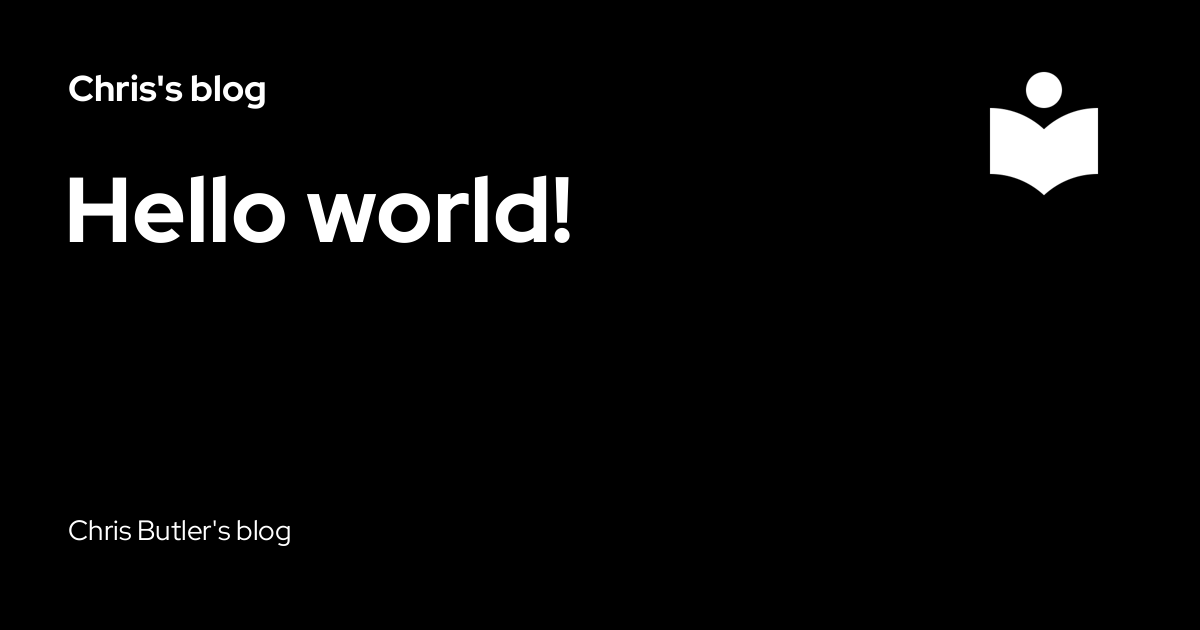
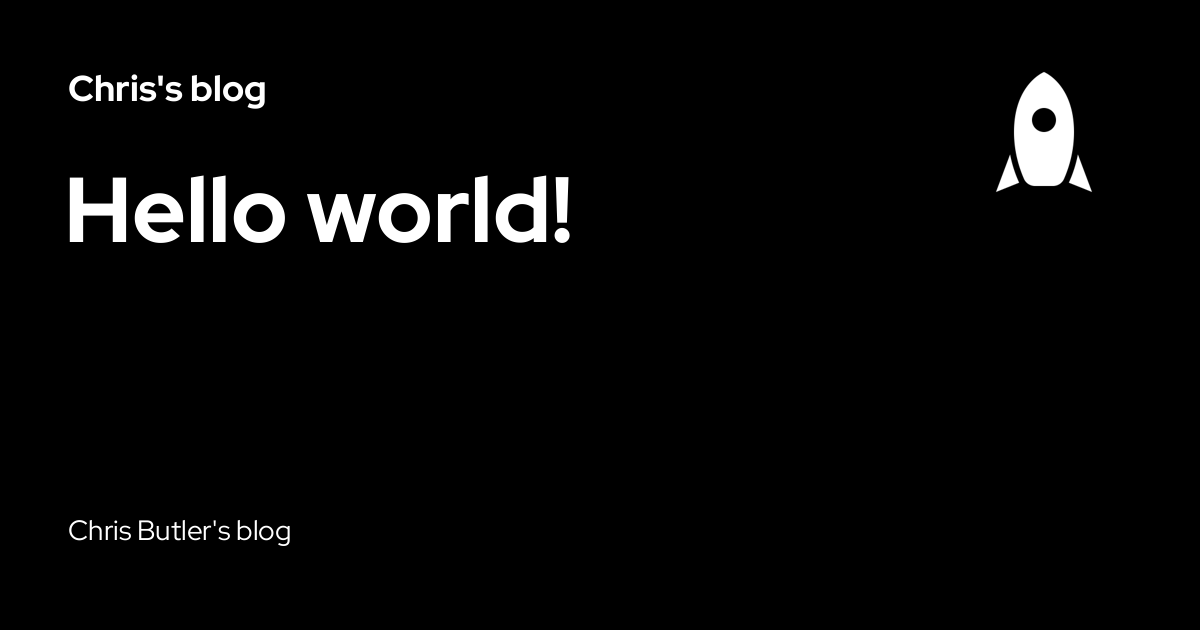
Deployed 9d69c99 with MkDocs version: 1.5.3

Changed region(s): [[0.8017, 0.1206, 0.925, 0.3016]]

diff --git a/blog/2000/01/01/hello-world/index.html b/blog/2000/01/01/hello-world/index.html
@@ -128,7 +128,7 @@
     <a href="../../../../.." title="Chris&#39;s blog" class="md-header__button md-logo" aria-label="Chris's blog" data-md-component="logo">
       
   
-  <svg xmlns="http://www.w3.org/2000/svg" viewBox="0 0 24 24"><path d="M12 8a3 3 0 0 0 3-3 3 3 0 0 0-3-3 3 3 0 0 0-3 3 3 3 0 0 0 3 3m0 3.54C9.64 9.35 6.5 8 3 8v11c3.5 0 6.64 1.35 9 3.54 2.36-2.19 5.5-3.54 9-3.54V8c-3.5 0-6.64 1.35-9 3.54Z"/></svg>
+  <svg xmlns="http://www.w3.org/2000/svg" viewBox="0 0 24 24"><path d="m20 22-3.86-1.55c.7-1.53 1.2-3.11 1.51-4.72L20 22M7.86 20.45 4 22l2.35-6.27c.31 1.61.81 3.19 1.51 4.72M12 2s5 2 5 10c0 3.1-.75 5.75-1.67 7.83A2 2 0 0 1 13.5 21h-3a2 2 0 0 1-1.83-1.17C7.76 17.75 7 15.1 7 12c0-8 5-10 5-10m0 10c1.1 0 2-.9 2-2s-.9-2-2-2-2 .9-2 2 .9 2 2 2Z"/></svg>
 
     </a>
     <label class="md-header__button md-icon" for="__drawer">
@@ -367,7 +367,7 @@
     <a href="../../../../.." title="Chris&#39;s blog" class="md-nav__button md-logo" aria-label="Chris's blog" data-md-component="logo">
       
   
-  <svg xmlns="http://www.w3.org/2000/svg" viewBox="0 0 24 24"><path d="M12 8a3 3 0 0 0 3-3 3 3 0 0 0-3-3 3 3 0 0 0-3 3 3 3 0 0 0 3 3m0 3.54C9.64 9.35 6.5 8 3 8v11c3.5 0 6.64 1.35 9 3.54 2.36-2.19 5.5-3.54 9-3.54V8c-3.5 0-6.64 1.35-9 3.54Z"/></svg>
+  <svg xmlns="http://www.w3.org/2000/svg" viewBox="0 0 24 24"><path d="m20 22-3.86-1.55c.7-1.53 1.2-3.11 1.51-4.72L20 22M7.86 20.45 4 22l2.35-6.27c.31 1.61.81 3.19 1.51 4.72M12 2s5 2 5 10c0 3.1-.75 5.75-1.67 7.83A2 2 0 0 1 13.5 21h-3a2 2 0 0 1-1.83-1.17C7.76 17.75 7 15.1 7 12c0-8 5-10 5-10m0 10c1.1 0 2-.9 2-2s-.9-2-2-2-2 .9-2 2 .9 2 2 2Z"/></svg>
 
     </a>
     Chris's blog

diff --git a/blog/2023/02/01/documentation-as-code/index.html b/blog/2023/02/01/documentation-as-code/index.html
@@ -132,7 +132,7 @@
     <a href="../../../../.." title="Chris&#39;s blog" class="md-header__button md-logo" aria-label="Chris's blog" data-md-component="logo">
       
   
-  <svg xmlns="http://www.w3.org/2000/svg" viewBox="0 0 24 24"><path d="M12 8a3 3 0 0 0 3-3 3 3 0 0 0-3-3 3 3 0 0 0-3 3 3 3 0 0 0 3 3m0 3.54C9.64 9.35 6.5 8 3 8v11c3.5 0 6.64 1.35 9 3.54 2.36-2.19 5.5-3.54 9-3.54V8c-3.5 0-6.64 1.35-9 3.54Z"/></svg>
+  <svg xmlns="http://www.w3.org/2000/svg" viewBox="0 0 24 24"><path d="m20 22-3.86-1.55c.7-1.53 1.2-3.11 1.51-4.72L20 22M7.86 20.45 4 22l2.35-6.27c.31 1.61.81 3.19 1.51 4.72M12 2s5 2 5 10c0 3.1-.75 5.75-1.67 7.83A2 2 0 0 1 13.5 21h-3a2 2 0 0 1-1.83-1.17C7.76 17.75 7 15.1 7 12c0-8 5-10 5-10m0 10c1.1 0 2-.9 2-2s-.9-2-2-2-2 .9-2 2 .9 2 2 2Z"/></svg>
 
     </a>
     <label class="md-header__button md-icon" for="__drawer">
@@ -371,7 +371,7 @@
     <a href="../../../../.." title="Chris&#39;s blog" class="md-nav__button md-logo" aria-label="Chris's blog" data-md-component="logo">
       
   
-  <svg xmlns="http://www.w3.org/2000/svg" viewBox="0 0 24 24"><path d="M12 8a3 3 0 0 0 3-3 3 3 0 0 0-3-3 3 3 0 0 0-3 3 3 3 0 0 0 3 3m0 3.54C9.64 9.35 6.5 8 3 8v11c3.5 0 6.64 1.35 9 3.54 2.36-2.19 5.5-3.54 9-3.54V8c-3.5 0-6.64 1.35-9 3.54Z"/></svg>
+  <svg xmlns="http://www.w3.org/2000/svg" viewBox="0 0 24 24"><path d="m20 22-3.86-1.55c.7-1.53 1.2-3.11 1.51-4.72L20 22M7.86 20.45 4 22l2.35-6.27c.31 1.61.81 3.19 1.51 4.72M12 2s5 2 5 10c0 3.1-.75 5.75-1.67 7.83A2 2 0 0 1 13.5 21h-3a2 2 0 0 1-1.83-1.17C7.76 17.75 7 15.1 7 12c0-8 5-10 5-10m0 10c1.1 0 2-.9 2-2s-.9-2-2-2-2 .9-2 2 .9 2 2 2Z"/></svg>
 
     </a>
     Chris's blog

diff --git a/blog/2023/10/30/validated-patterns-for-demos/index.html b/blog/2023/10/30/validated-patterns-for-demos/index.html
@@ -133,7 +133,7 @@
     <a href="../../../../.." title="Chris&#39;s blog" class="md-header__button md-logo" aria-label="Chris's blog" data-md-component="logo">
       
   
-  <svg xmlns="http://www.w3.org/2000/svg" viewBox="0 0 24 24"><path d="M12 8a3 3 0 0 0 3-3 3 3 0 0 0-3-3 3 3 0 0 0-3 3 3 3 0 0 0 3 3m0 3.54C9.64 9.35 6.5 8 3 8v11c3.5 0 6.64 1.35 9 3.54 2.36-2.19 5.5-3.54 9-3.54V8c-3.5 0-6.64 1.35-9 3.54Z"/></svg>
+  <svg xmlns="http://www.w3.org/2000/svg" viewBox="0 0 24 24"><path d="m20 22-3.86-1.55c.7-1.53 1.2-3.11 1.51-4.72L20 22M7.86 20.45 4 22l2.35-6.27c.31 1.61.81 3.19 1.51 4.72M12 2s5 2 5 10c0 3.1-.75 5.75-1.67 7.83A2 2 0 0 1 13.5 21h-3a2 2 0 0 1-1.83-1.17C7.76 17.75 7 15.1 7 12c0-8 5-10 5-10m0 10c1.1 0 2-.9 2-2s-.9-2-2-2-2 .9-2 2 .9 2 2 2Z"/></svg>
 
     </a>
     <label class="md-header__button md-icon" for="__drawer">
@@ -372,7 +372,7 @@
     <a href="../../../../.." title="Chris&#39;s blog" class="md-nav__button md-logo" aria-label="Chris's blog" data-md-component="logo">
       
   
-  <svg xmlns="http://www.w3.org/2000/svg" viewBox="0 0 24 24"><path d="M12 8a3 3 0 0 0 3-3 3 3 0 0 0-3-3 3 3 0 0 0-3 3 3 3 0 0 0 3 3m0 3.54C9.64 9.35 6.5 8 3 8v11c3.5 0 6.64 1.35 9 3.54 2.36-2.19 5.5-3.54 9-3.54V8c-3.5 0-6.64 1.35-9 3.54Z"/></svg>
+  <svg xmlns="http://www.w3.org/2000/svg" viewBox="0 0 24 24"><path d="m20 22-3.86-1.55c.7-1.53 1.2-3.11 1.51-4.72L20 22M7.86 20.45 4 22l2.35-6.27c.31 1.61.81 3.19 1.51 4.72M12 2s5 2 5 10c0 3.1-.75 5.75-1.67 7.83A2 2 0 0 1 13.5 21h-3a2 2 0 0 1-1.83-1.17C7.76 17.75 7 15.1 7 12c0-8 5-10 5-10m0 10c1.1 0 2-.9 2-2s-.9-2-2-2-2 .9-2 2 .9 2 2 2Z"/></svg>
 
     </a>
     Chris's blog

diff --git a/blog/archive/2000/index.html b/blog/archive/2000/index.html
@@ -130,7 +130,7 @@
     <a href="../../.." title="Chris&#39;s blog" class="md-header__button md-logo" aria-label="Chris's blog" data-md-component="logo">
       
   
-  <svg xmlns="http://www.w3.org/2000/svg" viewBox="0 0 24 24"><path d="M12 8a3 3 0 0 0 3-3 3 3 0 0 0-3-3 3 3 0 0 0-3 3 3 3 0 0 0 3 3m0 3.54C9.64 9.35 6.5 8 3 8v11c3.5 0 6.64 1.35 9 3.54 2.36-2.19 5.5-3.54 9-3.54V8c-3.5 0-6.64 1.35-9 3.54Z"/></svg>
+  <svg xmlns="http://www.w3.org/2000/svg" viewBox="0 0 24 24"><path d="m20 22-3.86-1.55c.7-1.53 1.2-3.11 1.51-4.72L20 22M7.86 20.45 4 22l2.35-6.27c.31 1.61.81 3.19 1.51 4.72M12 2s5 2 5 10c0 3.1-.75 5.75-1.67 7.83A2 2 0 0 1 13.5 21h-3a2 2 0 0 1-1.83-1.17C7.76 17.75 7 15.1 7 12c0-8 5-10 5-10m0 10c1.1 0 2-.9 2-2s-.9-2-2-2-2 .9-2 2 .9 2 2 2Z"/></svg>
 
     </a>
     <label class="md-header__button md-icon" for="__drawer">
@@ -367,7 +367,7 @@
     <a href="../../.." title="Chris&#39;s blog" class="md-nav__button md-logo" aria-label="Chris's blog" data-md-component="logo">
       
   
-  <svg xmlns="http://www.w3.org/2000/svg" viewBox="0 0 24 24"><path d="M12 8a3 3 0 0 0 3-3 3 3 0 0 0-3-3 3 3 0 0 0-3 3 3 3 0 0 0 3 3m0 3.54C9.64 9.35 6.5 8 3 8v11c3.5 0 6.64 1.35 9 3.54 2.36-2.19 5.5-3.54 9-3.54V8c-3.5 0-6.64 1.35-9 3.54Z"/></svg>
+  <svg xmlns="http://www.w3.org/2000/svg" viewBox="0 0 24 24"><path d="m20 22-3.86-1.55c.7-1.53 1.2-3.11 1.51-4.72L20 22M7.86 20.45 4 22l2.35-6.27c.31 1.61.81 3.19 1.51 4.72M12 2s5 2 5 10c0 3.1-.75 5.75-1.67 7.83A2 2 0 0 1 13.5 21h-3a2 2 0 0 1-1.83-1.17C7.76 17.75 7 15.1 7 12c0-8 5-10 5-10m0 10c1.1 0 2-.9 2-2s-.9-2-2-2-2 .9-2 2 .9 2 2 2Z"/></svg>
 
     </a>
     Chris's blog

diff --git a/blog/archive/2023/index.html b/blog/archive/2023/index.html
@@ -130,7 +130,7 @@
     <a href="../../.." title="Chris&#39;s blog" class="md-header__button md-logo" aria-label="Chris's blog" data-md-component="logo">
       
   
-  <svg xmlns="http://www.w3.org/2000/svg" viewBox="0 0 24 24"><path d="M12 8a3 3 0 0 0 3-3 3 3 0 0 0-3-3 3 3 0 0 0-3 3 3 3 0 0 0 3 3m0 3.54C9.64 9.35 6.5 8 3 8v11c3.5 0 6.64 1.35 9 3.54 2.36-2.19 5.5-3.54 9-3.54V8c-3.5 0-6.64 1.35-9 3.54Z"/></svg>
+  <svg xmlns="http://www.w3.org/2000/svg" viewBox="0 0 24 24"><path d="m20 22-3.86-1.55c.7-1.53 1.2-3.11 1.51-4.72L20 22M7.86 20.45 4 22l2.35-6.27c.31 1.61.81 3.19 1.51 4.72M12 2s5 2 5 10c0 3.1-.75 5.75-1.67 7.83A2 2 0 0 1 13.5 21h-3a2 2 0 0 1-1.83-1.17C7.76 17.75 7 15.1 7 12c0-8 5-10 5-10m0 10c1.1 0 2-.9 2-2s-.9-2-2-2-2 .9-2 2 .9 2 2 2Z"/></svg>
 
     </a>
     <label class="md-header__button md-icon" for="__drawer">
@@ -367,7 +367,7 @@
     <a href="../../.." title="Chris&#39;s blog" class="md-nav__button md-logo" aria-label="Chris's blog" data-md-component="logo">
       
   
-  <svg xmlns="http://www.w3.org/2000/svg" viewBox="0 0 24 24"><path d="M12 8a3 3 0 0 0 3-3 3 3 0 0 0-3-3 3 3 0 0 0-3 3 3 3 0 0 0 3 3m0 3.54C9.64 9.35 6.5 8 3 8v11c3.5 0 6.64 1.35 9 3.54 2.36-2.19 5.5-3.54 9-3.54V8c-3.5 0-6.64 1.35-9 3.54Z"/></svg>
+  <svg xmlns="http://www.w3.org/2000/svg" viewBox="0 0 24 24"><path d="m20 22-3.86-1.55c.7-1.53 1.2-3.11 1.51-4.72L20 22M7.86 20.45 4 22l2.35-6.27c.31 1.61.81 3.19 1.51 4.72M12 2s5 2 5 10c0 3.1-.75 5.75-1.67 7.83A2 2 0 0 1 13.5 21h-3a2 2 0 0 1-1.83-1.17C7.76 17.75 7 15.1 7 12c0-8 5-10 5-10m0 10c1.1 0 2-.9 2-2s-.9-2-2-2-2 .9-2 2 .9 2 2 2Z"/></svg>
 
     </a>
     Chris's blog

diff --git a/blog/category/cicd/index.html b/blog/category/cicd/index.html
@@ -130,7 +130,7 @@
     <a href="../../.." title="Chris&#39;s blog" class="md-header__button md-logo" aria-label="Chris's blog" data-md-component="logo">
       
   
-  <svg xmlns="http://www.w3.org/2000/svg" viewBox="0 0 24 24"><path d="M12 8a3 3 0 0 0 3-3 3 3 0 0 0-3-3 3 3 0 0 0-3 3 3 3 0 0 0 3 3m0 3.54C9.64 9.35 6.5 8 3 8v11c3.5 0 6.64 1.35 9 3.54 2.36-2.19 5.5-3.54 9-3.54V8c-3.5 0-6.64 1.35-9 3.54Z"/></svg>
+  <svg xmlns="http://www.w3.org/2000/svg" viewBox="0 0 24 24"><path d="m20 22-3.86-1.55c.7-1.53 1.2-3.11 1.51-4.72L20 22M7.86 20.45 4 22l2.35-6.27c.31 1.61.81 3.19 1.51 4.72M12 2s5 2 5 10c0 3.1-.75 5.75-1.67 7.83A2 2 0 0 1 13.5 21h-3a2 2 0 0 1-1.83-1.17C7.76 17.75 7 15.1 7 12c0-8 5-10 5-10m0 10c1.1 0 2-.9 2-2s-.9-2-2-2-2 .9-2 2 .9 2 2 2Z"/></svg>
 
     </a>
     <label class="md-header__button md-icon" for="__drawer">
@@ -367,7 +367,7 @@
     <a href="../../.." title="Chris&#39;s blog" class="md-nav__button md-logo" aria-label="Chris's blog" data-md-component="logo">
       
   
-  <svg xmlns="http://www.w3.org/2000/svg" viewBox="0 0 24 24"><path d="M12 8a3 3 0 0 0 3-3 3 3 0 0 0-3-3 3 3 0 0 0-3 3 3 3 0 0 0 3 3m0 3.54C9.64 9.35 6.5 8 3 8v11c3.5 0 6.64 1.35 9 3.54 2.36-2.19 5.5-3.54 9-3.54V8c-3.5 0-6.64 1.35-9 3.54Z"/></svg>
+  <svg xmlns="http://www.w3.org/2000/svg" viewBox="0 0 24 24"><path d="m20 22-3.86-1.55c.7-1.53 1.2-3.11 1.51-4.72L20 22M7.86 20.45 4 22l2.35-6.27c.31 1.61.81 3.19 1.51 4.72M12 2s5 2 5 10c0 3.1-.75 5.75-1.67 7.83A2 2 0 0 1 13.5 21h-3a2 2 0 0 1-1.83-1.17C7.76 17.75 7 15.1 7 12c0-8 5-10 5-10m0 10c1.1 0 2-.9 2-2s-.9-2-2-2-2 .9-2 2 .9 2 2 2Z"/></svg>
 
     </a>
     Chris's blog

diff --git a/blog/category/demos/index.html b/blog/category/demos/index.html
@@ -130,7 +130,7 @@
     <a href="../../.." title="Chris&#39;s blog" class="md-header__button md-logo" aria-label="Chris's blog" data-md-component="logo">
       
   
-  <svg xmlns="http://www.w3.org/2000/svg" viewBox="0 0 24 24"><path d="M12 8a3 3 0 0 0 3-3 3 3 0 0 0-3-3 3 3 0 0 0-3 3 3 3 0 0 0 3 3m0 3.54C9.64 9.35 6.5 8 3 8v11c3.5 0 6.64 1.35 9 3.54 2.36-2.19 5.5-3.54 9-3.54V8c-3.5 0-6.64 1.35-9 3.54Z"/></svg>
+  <svg xmlns="http://www.w3.org/2000/svg" viewBox="0 0 24 24"><path d="m20 22-3.86-1.55c.7-1.53 1.2-3.11 1.51-4.72L20 22M7.86 20.45 4 22l2.35-6.27c.31 1.61.81 3.19 1.51 4.72M12 2s5 2 5 10c0 3.1-.75 5.75-1.67 7.83A2 2 0 0 1 13.5 21h-3a2 2 0 0 1-1.83-1.17C7.76 17.75 7 15.1 7 12c0-8 5-10 5-10m0 10c1.1 0 2-.9 2-2s-.9-2-2-2-2 .9-2 2 .9 2 2 2Z"/></svg>
 
     </a>
     <label class="md-header__button md-icon" for="__drawer">
@@ -367,7 +367,7 @@
     <a href="../../.." title="Chris&#39;s blog" class="md-nav__button md-logo" aria-label="Chris's blog" data-md-component="logo">
       
   
-  <svg xmlns="http://www.w3.org/2000/svg" viewBox="0 0 24 24"><path d="M12 8a3 3 0 0 0 3-3 3 3 0 0 0-3-3 3 3 0 0 0-3 3 3 3 0 0 0 3 3m0 3.54C9.64 9.35 6.5 8 3 8v11c3.5 0 6.64 1.35 9 3.54 2.36-2.19 5.5-3.54 9-3.54V8c-3.5 0-6.64 1.35-9 3.54Z"/></svg>
+  <svg xmlns="http://www.w3.org/2000/svg" viewBox="0 0 24 24"><path d="m20 22-3.86-1.55c.7-1.53 1.2-3.11 1.51-4.72L20 22M7.86 20.45 4 22l2.35-6.27c.31 1.61.81 3.19 1.51 4.72M12 2s5 2 5 10c0 3.1-.75 5.75-1.67 7.83A2 2 0 0 1 13.5 21h-3a2 2 0 0 1-1.83-1.17C7.76 17.75 7 15.1 7 12c0-8 5-10 5-10m0 10c1.1 0 2-.9 2-2s-.9-2-2-2-2 .9-2 2 .9 2 2 2Z"/></svg>
 
     </a>
     Chris's blog

diff --git a/blog/category/documentation/index.html b/blog/category/documentation/index.html
@@ -130,7 +130,7 @@
     <a href="../../.." title="Chris&#39;s blog" class="md-header__button md-logo" aria-label="Chris's blog" data-md-component="logo">
       
   
-  <svg xmlns="http://www.w3.org/2000/svg" viewBox="0 0 24 24"><path d="M12 8a3 3 0 0 0 3-3 3 3 0 0 0-3-3 3 3 0 0 0-3 3 3 3 0 0 0 3 3m0 3.54C9.64 9.35 6.5 8 3 8v11c3.5 0 6.64 1.35 9 3.54 2.36-2.19 5.5-3.54 9-3.54V8c-3.5 0-6.64 1.35-9 3.54Z"/></svg>
+  <svg xmlns="http://www.w3.org/2000/svg" viewBox="0 0 24 24"><path d="m20 22-3.86-1.55c.7-1.53 1.2-3.11 1.51-4.72L20 22M7.86 20.45 4 22l2.35-6.27c.31 1.61.81 3.19 1.51 4.72M12 2s5 2 5 10c0 3.1-.75 5.75-1.67 7.83A2 2 0 0 1 13.5 21h-3a2 2 0 0 1-1.83-1.17C7.76 17.75 7 15.1 7 12c0-8 5-10 5-10m0 10c1.1 0 2-.9 2-2s-.9-2-2-2-2 .9-2 2 .9 2 2 2Z"/></svg>
 
     </a>
     <label class="md-header__button md-icon" for="__drawer">
@@ -367,7 +367,7 @@
     <a href="../../.." title="Chris&#39;s blog" class="md-nav__button md-logo" aria-label="Chris's blog" data-md-component="logo">
       
   
-  <svg xmlns="http://www.w3.org/2000/svg" viewBox="0 0 24 24"><path d="M12 8a3 3 0 0 0 3-3 3 3 0 0 0-3-3 3 3 0 0 0-3 3 3 3 0 0 0 3 3m0 3.54C9.64 9.35 6.5 8 3 8v11c3.5 0 6.64 1.35 9 3.54 2.36-2.19 5.5-3.54 9-3.54V8c-3.5 0-6.64 1.35-9 3.54Z"/></svg>
+  <svg xmlns="http://www.w3.org/2000/svg" viewBox="0 0 24 24"><path d="m20 22-3.86-1.55c.7-1.53 1.2-3.11 1.51-4.72L20 22M7.86 20.45 4 22l2.35-6.27c.31 1.61.81 3.19 1.51 4.72M12 2s5 2 5 10c0 3.1-.75 5.75-1.67 7.83A2 2 0 0 1 13.5 21h-3a2 2 0 0 1-1.83-1.17C7.76 17.75 7 15.1 7 12c0-8 5-10 5-10m0 10c1.1 0 2-.9 2-2s-.9-2-2-2-2 .9-2 2 .9 2 2 2Z"/></svg>
 
     </a>
     Chris's blog

diff --git a/blog/category/github/index.html b/blog/category/github/index.html
@@ -130,7 +130,7 @@
     <a href="../../.." title="Chris&#39;s blog" class="md-header__button md-logo" aria-label="Chris's blog" data-md-component="logo">
       
   
-  <svg xmlns="http://www.w3.org/2000/svg" viewBox="0 0 24 24"><path d="M12 8a3 3 0 0 0 3-3 3 3 0 0 0-3-3 3 3 0 0 0-3 3 3 3 0 0 0 3 3m0 3.54C9.64 9.35 6.5 8 3 8v11c3.5 0 6.64 1.35 9 3.54 2.36-2.19 5.5-3.54 9-3.54V8c-3.5 0-6.64 1.35-9 3.54Z"/></svg>
+  <svg xmlns="http://www.w3.org/2000/svg" viewBox="0 0 24 24"><path d="m20 22-3.86-1.55c.7-1.53 1.2-3.11 1.51-4.72L20 22M7.86 20.45 4 22l2.35-6.27c.31 1.61.81 3.19 1.51 4.72M12 2s5 2 5 10c0 3.1-.75 5.75-1.67 7.83A2 2 0 0 1 13.5 21h-3a2 2 0 0 1-1.83-1.17C7.76 17.75 7 15.1 7 12c0-8 5-10 5-10m0 10c1.1 0 2-.9 2-2s-.9-2-2-2-2 .9-2 2 .9 2 2 2Z"/></svg>
 
     </a>
     <label class="md-header__button md-icon" for="__drawer">
@@ -367,7 +367,7 @@
     <a href="../../.." title="Chris&#39;s blog" class="md-nav__button md-logo" aria-label="Chris's blog" data-md-component="logo">
       
   
-  <svg xmlns="http://www.w3.org/2000/svg" viewBox="0 0 24 24"><path d="M12 8a3 3 0 0 0 3-3 3 3 0 0 0-3-3 3 3 0 0 0-3 3 3 3 0 0 0 3 3m0 3.54C9.64 9.35 6.5 8 3 8v11c3.5 0 6.64 1.35 9 3.54 2.36-2.19 5.5-3.54 9-3.54V8c-3.5 0-6.64 1.35-9 3.54Z"/></svg>
+  <svg xmlns="http://www.w3.org/2000/svg" viewBox="0 0 24 24"><path d="m20 22-3.86-1.55c.7-1.53 1.2-3.11 1.51-4.72L20 22M7.86 20.45 4 22l2.35-6.27c.31 1.61.81 3.19 1.51 4.72M12 2s5 2 5 10c0 3.1-.75 5.75-1.67 7.83A2 2 0 0 1 13.5 21h-3a2 2 0 0 1-1.83-1.17C7.76 17.75 7 15.1 7 12c0-8 5-10 5-10m0 10c1.1 0 2-.9 2-2s-.9-2-2-2-2 .9-2 2 .9 2 2 2Z"/></svg>
 
     </a>
     Chris's blog

diff --git a/blog/category/gitops/index.html b/blog/category/gitops/index.html
@@ -130,7 +130,7 @@
     <a href="../../.." title="Chris&#39;s blog" class="md-header__button md-logo" aria-label="Chris's blog" data-md-component="logo">
       
   
-  <svg xmlns="http://www.w3.org/2000/svg" viewBox="0 0 24 24"><path d="M12 8a3 3 0 0 0 3-3 3 3 0 0 0-3-3 3 3 0 0 0-3 3 3 3 0 0 0 3 3m0 3.54C9.64 9.35 6.5 8 3 8v11c3.5 0 6.64 1.35 9 3.54 2.36-2.19 5.5-3.54 9-3.54V8c-3.5 0-6.64 1.35-9 3.54Z"/></svg>
+  <svg xmlns="http://www.w3.org/2000/svg" viewBox="0 0 24 24"><path d="m20 22-3.86-1.55c.7-1.53 1.2-3.11 1.51-4.72L20 22M7.86 20.45 4 22l2.35-6.27c.31 1.61.81 3.19 1.51 4.72M12 2s5 2 5 10c0 3.1-.75 5.75-1.67 7.83A2 2 0 0 1 13.5 21h-3a2 2 0 0 1-1.83-1.17C7.76 17.75 7 15.1 7 12c0-8 5-10 5-10m0 10c1.1 0 2-.9 2-2s-.9-2-2-2-2 .9-2 2 .9 2 2 2Z"/></svg>
 
     </a>
     <label class="md-header__button md-icon" for="__drawer">
@@ -367,7 +367,7 @@
     <a href="../../.." title="Chris&#39;s blog" class="md-nav__button md-logo" aria-label="Chris's blog" data-md-component="logo">
       
   
-  <svg xmlns="http://www.w3.org/2000/svg" viewBox="0 0 24 24"><path d="M12 8a3 3 0 0 0 3-3 3 3 0 0 0-3-3 3 3 0 0 0-3 3 3 3 0 0 0 3 3m0 3.54C9.64 9.35 6.5 8 3 8v11c3.5 0 6.64 1.35 9 3.54 2.36-2.19 5.5-3.54 9-3.54V8c-3.5 0-6.64 1.35-9 3.54Z"/></svg>
+  <svg xmlns="http://www.w3.org/2000/svg" viewBox="0 0 24 24"><path d="m20 22-3.86-1.55c.7-1.53 1.2-3.11 1.51-4.72L20 22M7.86 20.45 4 22l2.35-6.27c.31 1.61.81 3.19 1.51 4.72M12 2s5 2 5 10c0 3.1-.75 5.75-1.67 7.83A2 2 0 0 1 13.5 21h-3a2 2 0 0 1-1.83-1.17C7.76 17.75 7 15.1 7 12c0-8 5-10 5-10m0 10c1.1 0 2-.9 2-2s-.9-2-2-2-2 .9-2 2 .9 2 2 2Z"/></svg>
 
     </a>
     Chris's blog

diff --git a/blog/category/hello/index.html b/blog/category/hello/index.html
@@ -130,7 +130,7 @@
     <a href="../../.." title="Chris&#39;s blog" class="md-header__button md-logo" aria-label="Chris's blog" data-md-component="logo">
       
   
-  <svg xmlns="http://www.w3.org/2000/svg" viewBox="0 0 24 24"><path d="M12 8a3 3 0 0 0 3-3 3 3 0 0 0-3-3 3 3 0 0 0-3 3 3 3 0 0 0 3 3m0 3.54C9.64 9.35 6.5 8 3 8v11c3.5 0 6.64 1.35 9 3.54 2.36-2.19 5.5-3.54 9-3.54V8c-3.5 0-6.64 1.35-9 3.54Z"/></svg>
+  <svg xmlns="http://www.w3.org/2000/svg" viewBox="0 0 24 24"><path d="m20 22-3.86-1.55c.7-1.53 1.2-3.11 1.51-4.72L20 22M7.86 20.45 4 22l2.35-6.27c.31 1.61.81 3.19 1.51 4.72M12 2s5 2 5 10c0 3.1-.75 5.75-1.67 7.83A2 2 0 0 1 13.5 21h-3a2 2 0 0 1-1.83-1.17C7.76 17.75 7 15.1 7 12c0-8 5-10 5-10m0 10c1.1 0 2-.9 2-2s-.9-2-2-2-2 .9-2 2 .9 2 2 2Z"/></svg>
 
     </a>
     <label class="md-header__button md-icon" for="__drawer">
@@ -367,7 +367,7 @@
     <a href="../../.." title="Chris&#39;s blog" class="md-nav__button md-logo" aria-label="Chris's blog" data-md-component="logo">
       
   
-  <svg xmlns="http://www.w3.org/2000/svg" viewBox="0 0 24 24"><path d="M12 8a3 3 0 0 0 3-3 3 3 0 0 0-3-3 3 3 0 0 0-3 3 3 3 0 0 0 3 3m0 3.54C9.64 9.35 6.5 8 3 8v11c3.5 0 6.64 1.35 9 3.54 2.36-2.19 5.5-3.54 9-3.54V8c-3.5 0-6.64 1.35-9 3.54Z"/></svg>
+  <svg xmlns="http://www.w3.org/2000/svg" viewBox="0 0 24 24"><path d="m20 22-3.86-1.55c.7-1.53 1.2-3.11 1.51-4.72L20 22M7.86 20.45 4 22l2.35-6.27c.31 1.61.81 3.19 1.51 4.72M12 2s5 2 5 10c0 3.1-.75 5.75-1.67 7.83A2 2 0 0 1 13.5 21h-3a2 2 0 0 1-1.83-1.17C7.76 17.75 7 15.1 7 12c0-8 5-10 5-10m0 10c1.1 0 2-.9 2-2s-.9-2-2-2-2 .9-2 2 .9 2 2 2Z"/></svg>
 
     </a>
     Chris's blog

diff --git a/blog/category/mkdocs/index.html b/blog/category/mkdocs/index.html
@@ -130,7 +130,7 @@
     <a href="../../.." title="Chris&#39;s blog" class="md-header__button md-logo" aria-label="Chris's blog" data-md-component="logo">
       
   
-  <svg xmlns="http://www.w3.org/2000/svg" viewBox="0 0 24 24"><path d="M12 8a3 3 0 0 0 3-3 3 3 0 0 0-3-3 3 3 0 0 0-3 3 3 3 0 0 0 3 3m0 3.54C9.64 9.35 6.5 8 3 8v11c3.5 0 6.64 1.35 9 3.54 2.36-2.19 5.5-3.54 9-3.54V8c-3.5 0-6.64 1.35-9 3.54Z"/></svg>
+  <svg xmlns="http://www.w3.org/2000/svg" viewBox="0 0 24 24"><path d="m20 22-3.86-1.55c.7-1.53 1.2-3.11 1.51-4.72L20 22M7.86 20.45 4 22l2.35-6.27c.31 1.61.81 3.19 1.51 4.72M12 2s5 2 5 10c0 3.1-.75 5.75-1.67 7.83A2 2 0 0 1 13.5 21h-3a2 2 0 0 1-1.83-1.17C7.76 17.75 7 15.1 7 12c0-8 5-10 5-10m0 10c1.1 0 2-.9 2-2s-.9-2-2-2-2 .9-2 2 .9 2 2 2Z"/></svg>
 
     </a>
     <label class="md-header__button md-icon" for="__drawer">
@@ -367,7 +367,7 @@
     <a href="../../.." title="Chris&#39;s blog" class="md-nav__button md-logo" aria-label="Chris's blog" data-md-component="logo">
       
   
-  <svg xmlns="http://www.w3.org/2000/svg" viewBox="0 0 24 24"><path d="M12 8a3 3 0 0 0 3-3 3 3 0 0 0-3-3 3 3 0 0 0-3 3 3 3 0 0 0 3 3m0 3.54C9.64 9.35 6.5 8 3 8v11c3.5 0 6.64 1.35 9 3.54 2.36-2.19 5.5-3.54 9-3.54V8c-3.5 0-6.64 1.35-9 3.54Z"/></svg>
+  <svg xmlns="http://www.w3.org/2000/svg" viewBox="0 0 24 24"><path d="m20 22-3.86-1.55c.7-1.53 1.2-3.11 1.51-4.72L20 22M7.86 20.45 4 22l2.35-6.27c.31 1.61.81 3.19 1.51 4.72M12 2s5 2 5 10c0 3.1-.75 5.75-1.67 7.83A2 2 0 0 1 13.5 21h-3a2 2 0 0 1-1.83-1.17C7.76 17.75 7 15.1 7 12c0-8 5-10 5-10m0 10c1.1 0 2-.9 2-2s-.9-2-2-2-2 .9-2 2 .9 2 2 2Z"/></svg>
 
     </a>
     Chris's blog
